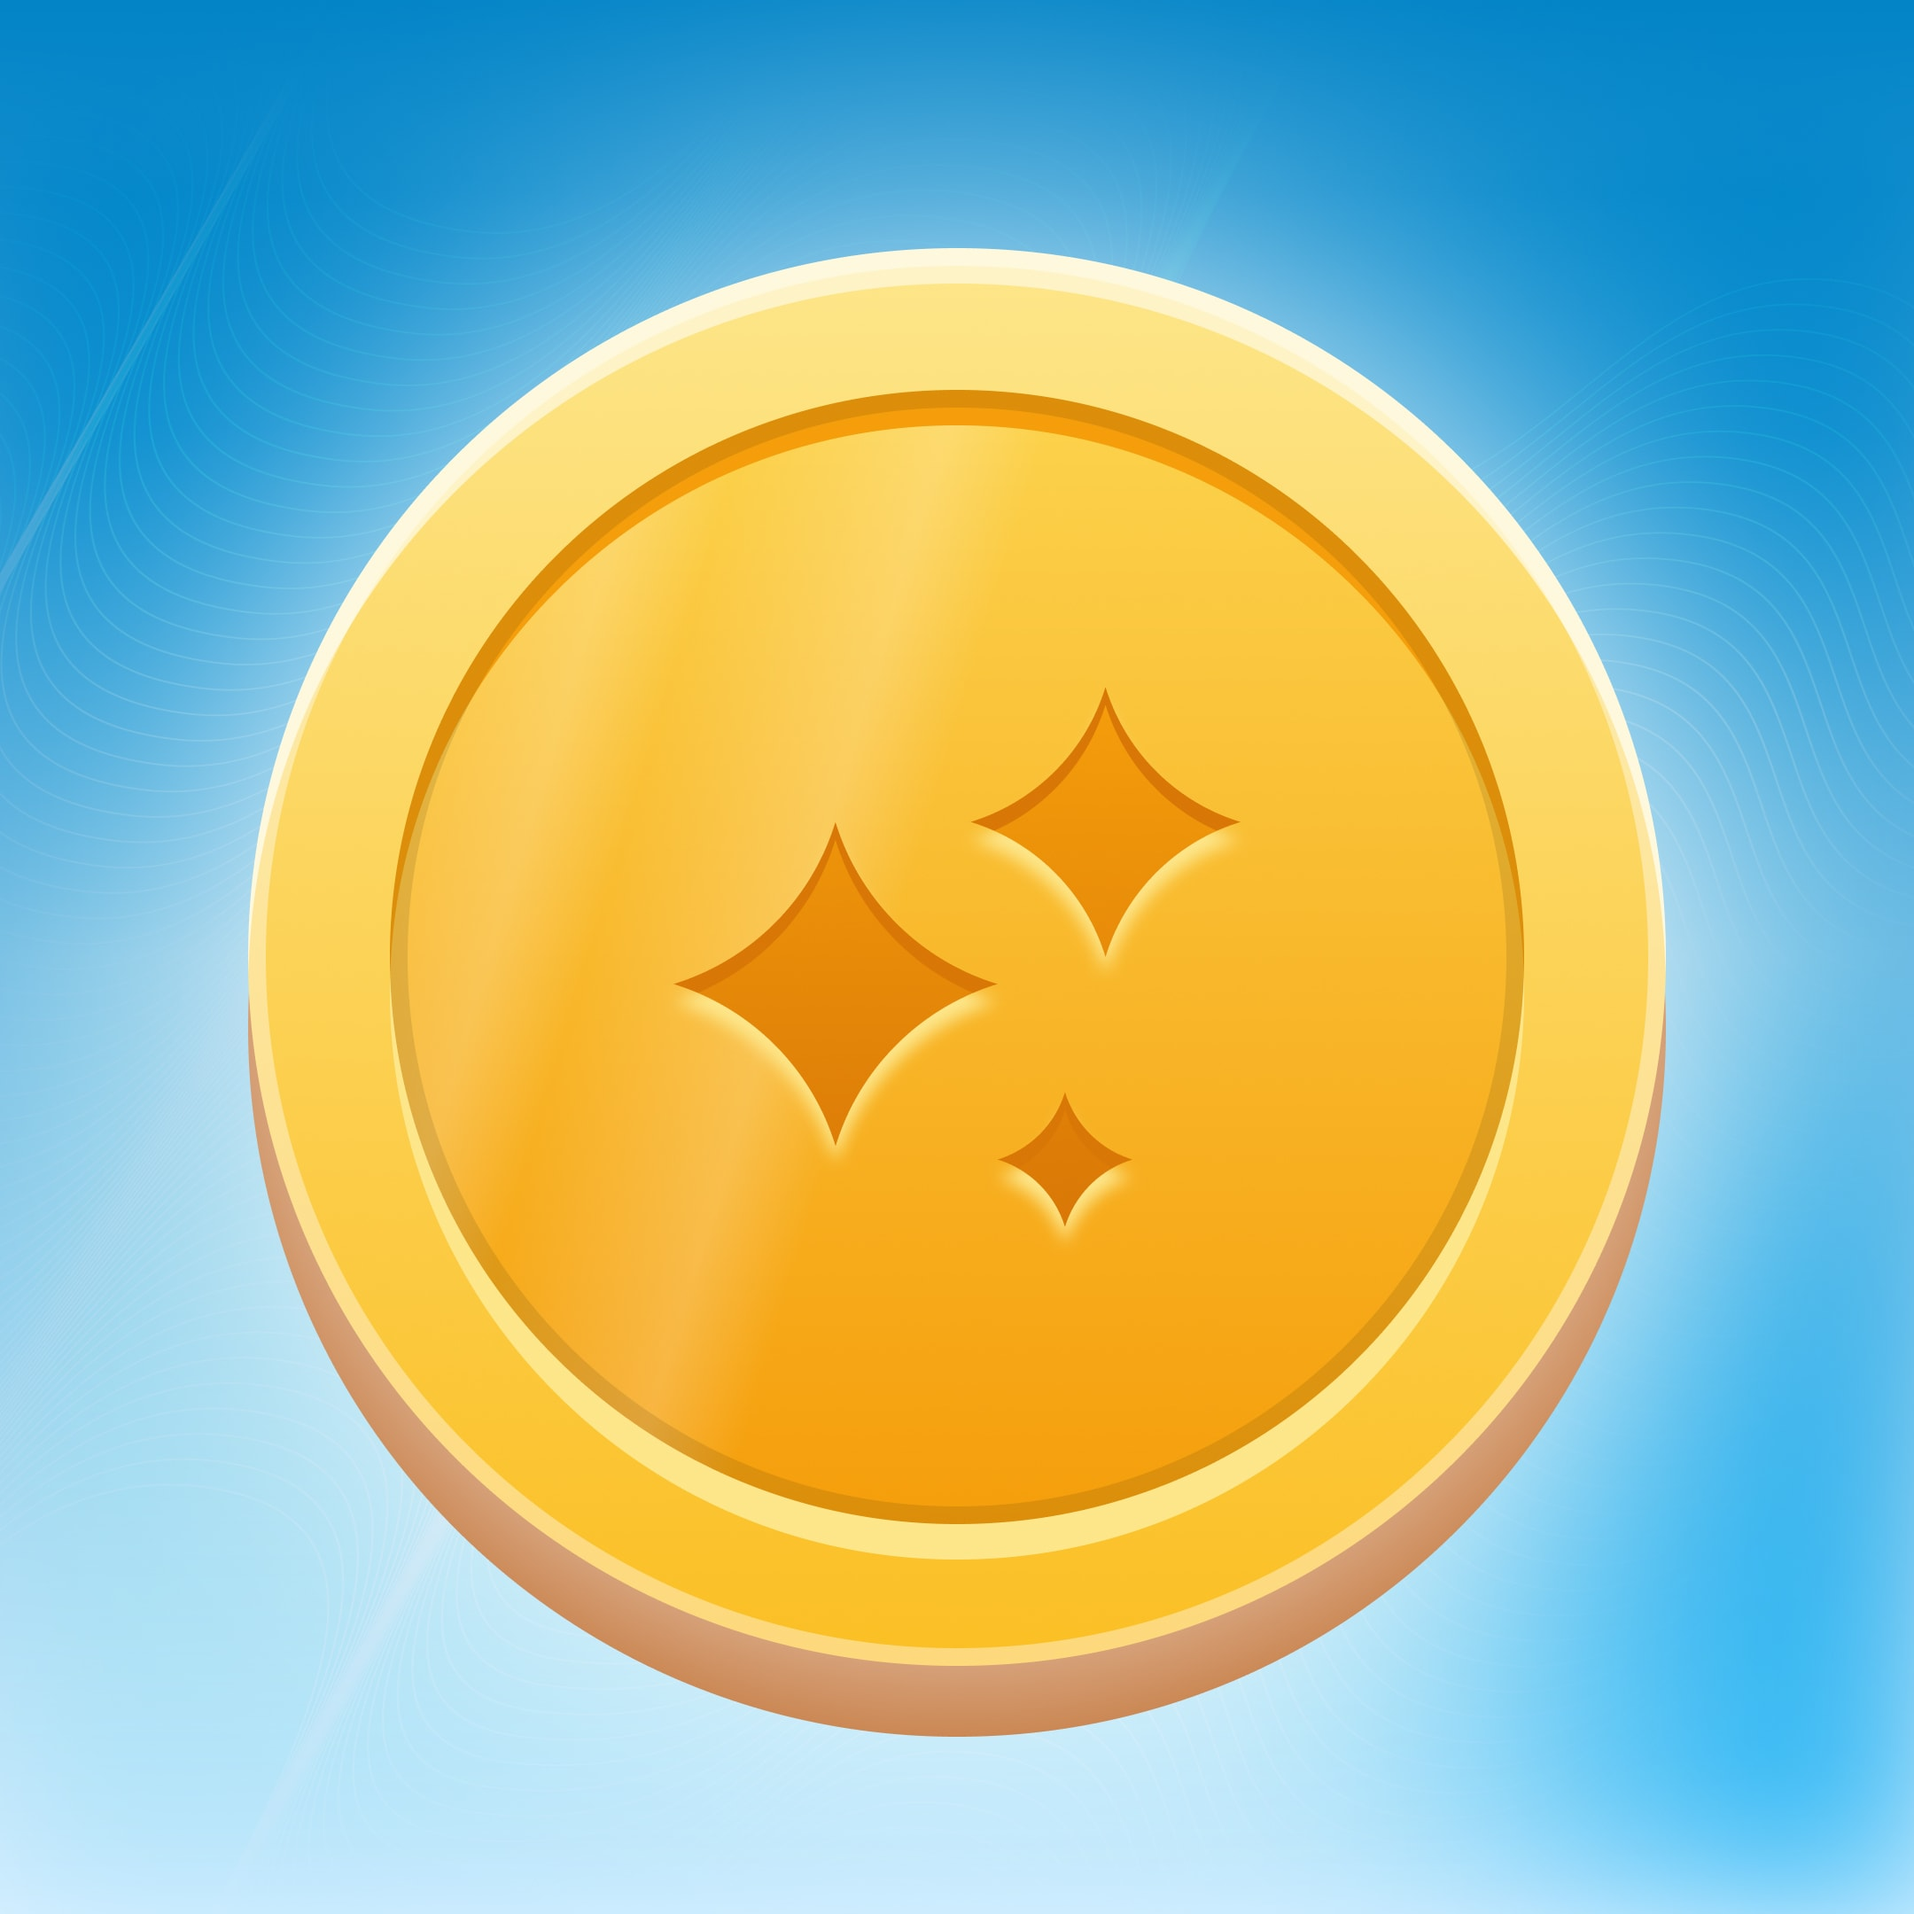
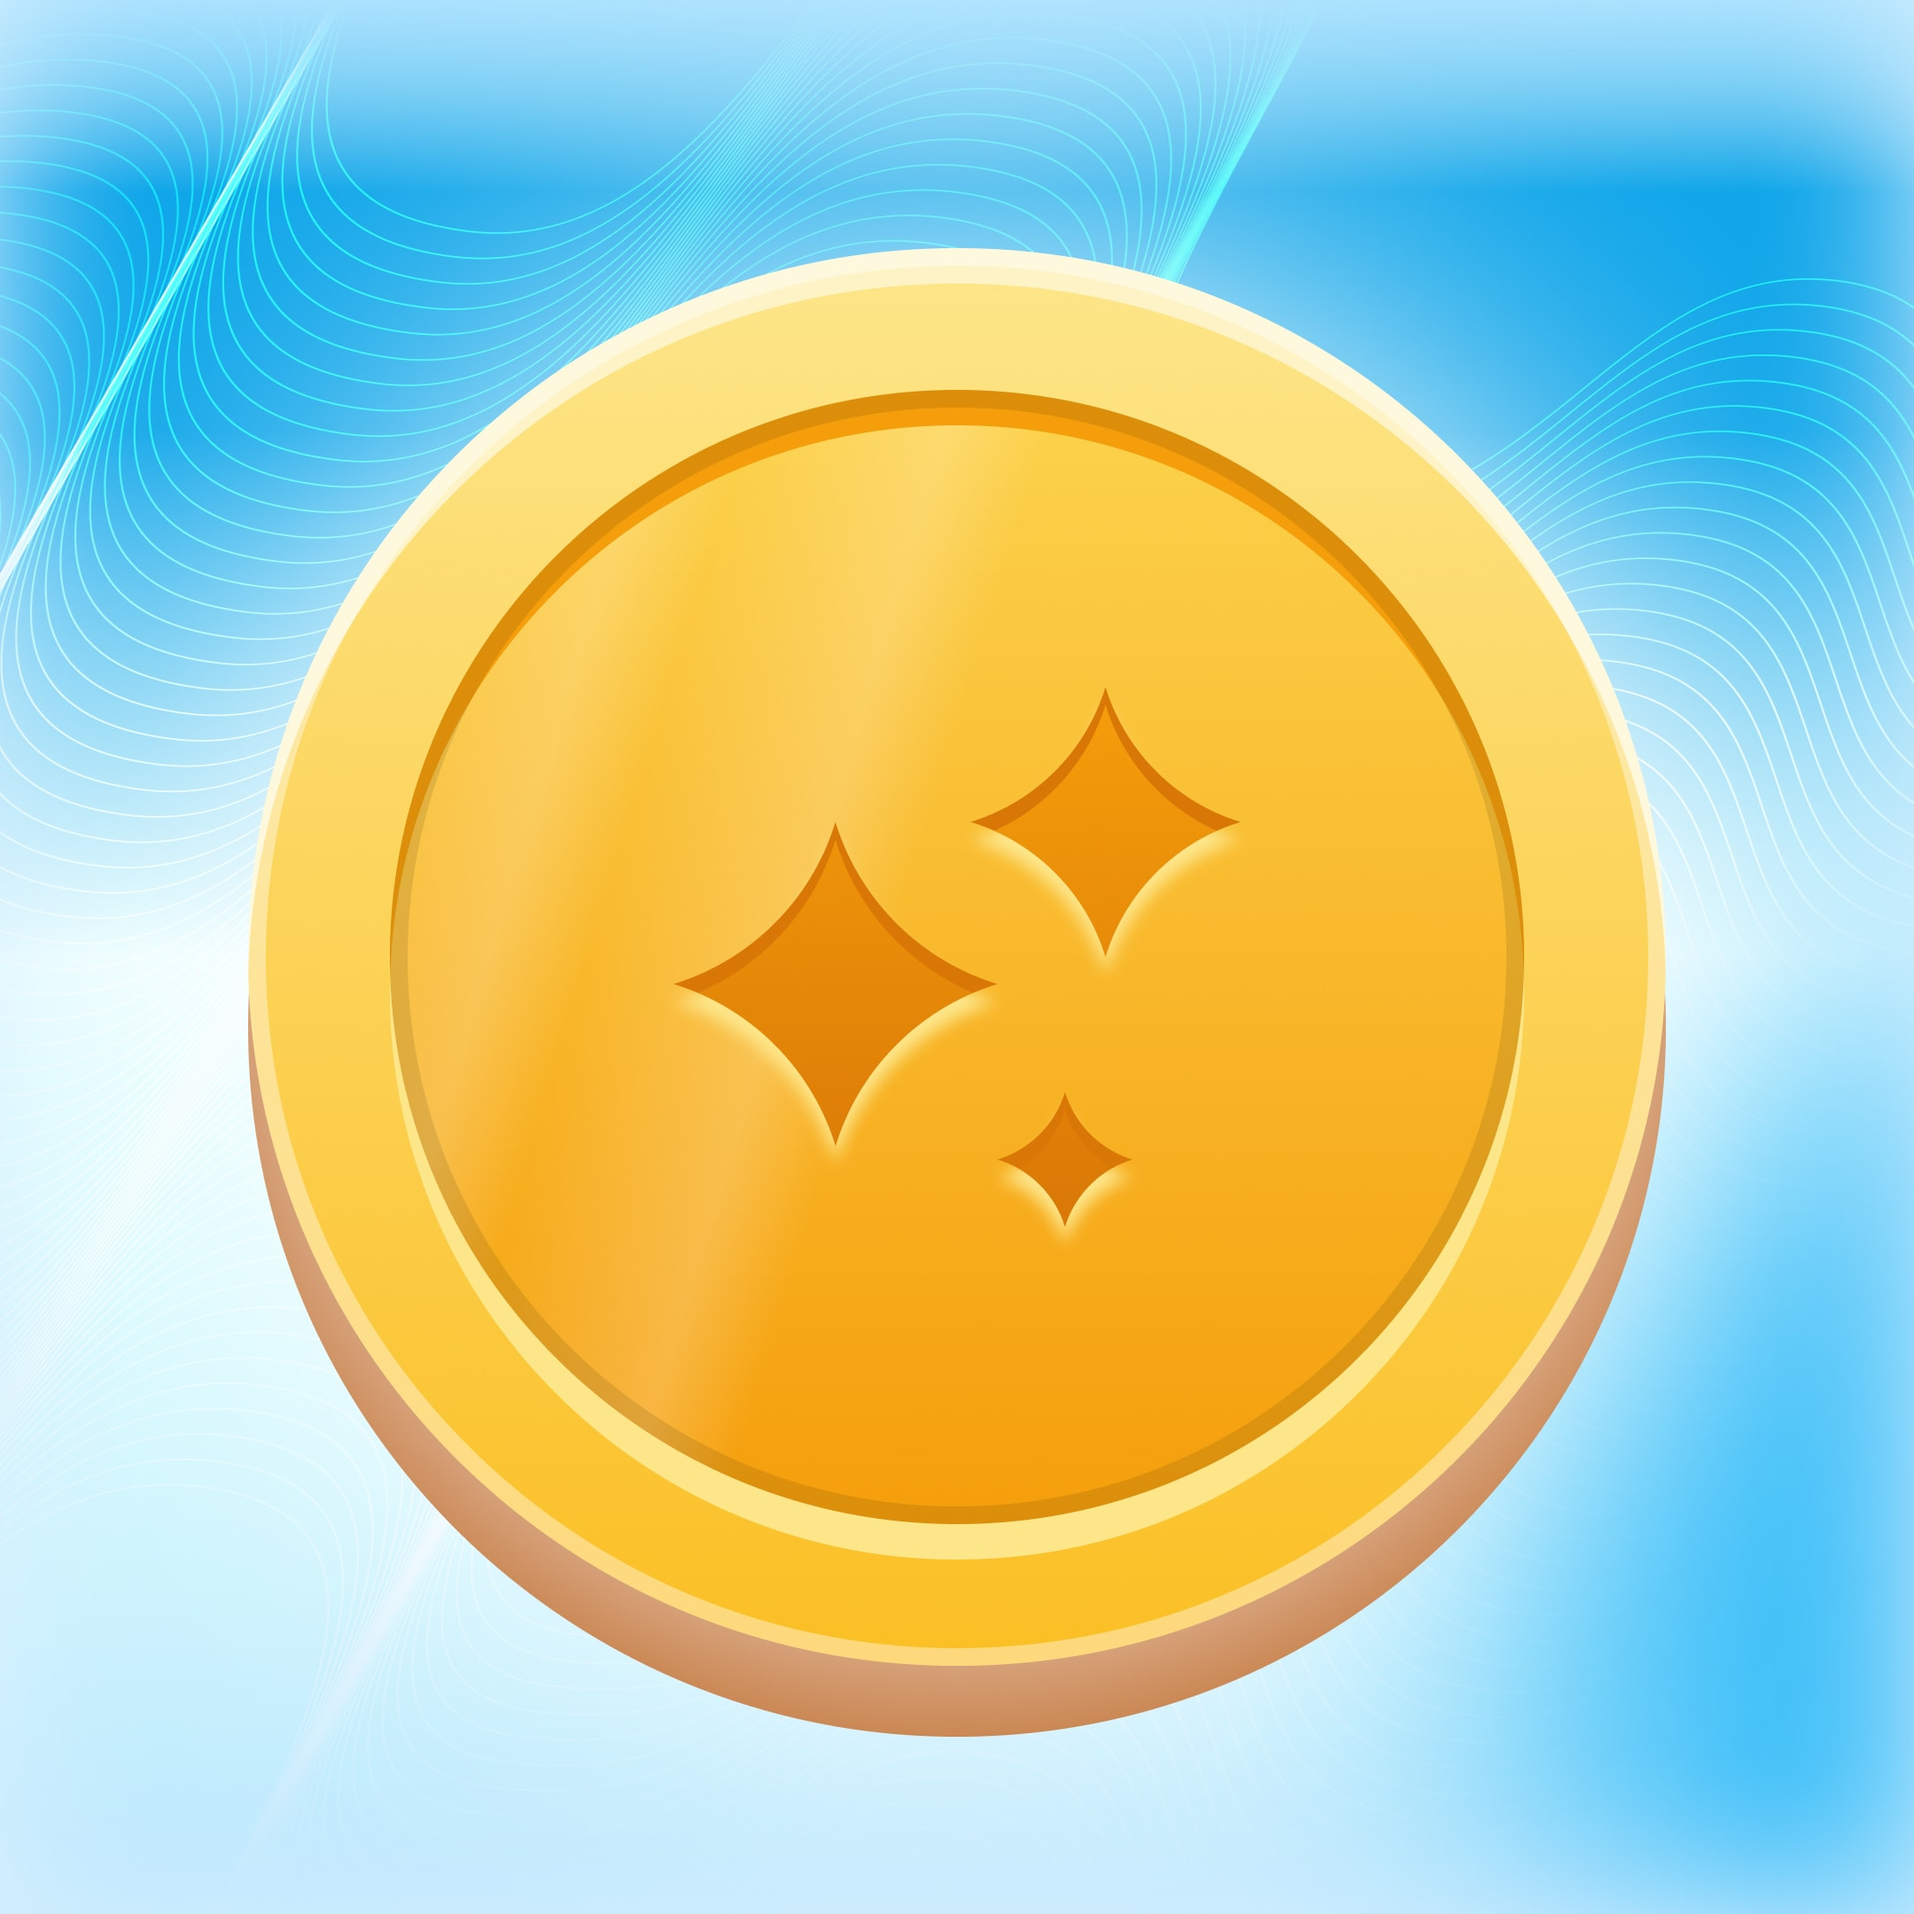
ORO orange

diff --git a/_site/assets/css/main.css b/_site/assets/css/main.css
@@ -1,1 +1,1 @@
-@import"https://fonts.googleapis.com/css2?family=Onest:wght@100..900&display=swap";:root{--primary-color: black;--secondary-color: red;--amber-500: #F59E0B;--sky-50: #F0F9FF;--sky-100: #E0F2FE;--sky-200: #BAE6FD;--sky-300: #7DD3FC;--sky-400: #38BDF8;--sky-500: #0EA5E9;--sky-600: #0284C7;--sky-700: #0369A1;--sky-800: #075985;--sky-900: #0C4A6E;--sky-950: #082F49;--slate-50: #F8FAFC;--slate-100: #F1F5F9;--slate-200: #E2E8F0;--slate-300: #CBD5E1;--slate-400: #94A3B8;--slate-500: #64748B;--slate-600: #6E7F95;--slate-700: #546378;--slate-800: #2E3847;--slate-900: #1A2028;--slate-950: #020617;--uno-blue: #01B3FF}*,html{margin:0;padding:0;box-sizing:border-box;-webkit-font-smoothing:antialiased;-moz-osx-font-smoothing:grayscale;text-rendering:optimizeLegibility}::-moz-selection{color:#fff;background:var(--sky-300)}::selection{color:#fff;background:var(--sky-300)}body{font-family:"Onest",sans-serif;font-size:16px}h1{font-size:32px;font-weight:700;text-shadow:0 2px 2px #fff}h2{font-size:18px;font-weight:500;text-shadow:0 2px 2px #fff}h3{font-size:14px;font-weight:600;color:var(--sky-700);text-shadow:0 2px 2px #fff}p{font-size:1rem;font-weight:500}a{transition:all .2s ease-in-out;color:var(--tertiary-color);text-decoration:none;font-weight:700;color:var(--sky-950)}a:hover,a:focus,a:active{color:var(--sky-700)}@keyframes fade{0%{opacity:0;transform:translateY(10vh);filter:blur(2rem)}100%{opacity:1;transform:translateY(0);filter:blur(0px)}}.fade{animation:fade .45s ease-out}body{color:var(--sky-950)}main{display:flex;flex-direction:column;align-items:center;background-image:url("/oro-web/assets/images/background.png"),linear-gradient(to top, var(--sky-50), var(--sky-300));background-position:center,center;background-repeat:no-repeat,no-repeat;background-size:cover,cover;min-height:100vh;width:100%;overflow:hidden}section{display:flex;flex-direction:column;max-width:960px;gap:5rem;width:100%}section.center{flex-direction:row;align-items:center;height:100vh}@media(max-width: 768px){section.center{flex-direction:column;height:auto;gap:2rem}}hr{width:100%;border:none;border-top:1px solid var(--sky-200)}.hero-container,.hero-image{display:flex;flex-direction:column;gap:3rem;padding:1rem;max-width:440px;width:100%}.hero-container{z-index:1}.hero-image{position:relative;pointer-events:none;min-height:320px}.hero-image img{width:1125px;position:absolute;top:50%;left:50%;transform:translateX(-50%) translateY(-50%);height:auto}@media(max-width: 768px){.hero-image img{transform:translateX(-55%) translateY(-65%)}}.logo-section{display:flex;flex-direction:column;gap:1.5rem;align-items:flex-start}.logo-section img{height:6rem;width:auto;border-radius:1.5rem;box-shadow:0px 10px 15px -3px rgba(0,0,0,.1),0px 4px 6px -4px rgba(0,0,0,.1)}.action-section{display:flex;flex-direction:column;gap:1.5rem;align-items:flex-start}.action-button{display:flex;align-items:center;justify-content:center;background:hsla(0,0%,100%,.8);backdrop-filter:blur(0.5rem);-webkit-backdrop-filter:blur(0.5rem);border:1px solid #fff;color:var(--slate-900);padding:.75rem 1.5rem;gap:.25rem;height:4rem;border-radius:2rem;font-size:1.25rem;line-height:1.25rem;box-shadow:0px 1px 3px 0px rgba(0,0,0,.1),0px 1px 2px -1px rgba(0,0,0,.1)}.action-button:hover,.action-button:focus{background-color:#fff;color:var(--sky-950);transform:translateY(-0.125rem);box-shadow:0px 2px 16px 0px var(--amber-500),0px 2px 24px -2px var(--amber-500)}.action-button:active{transform:translateY(0);box-shadow:0px 1px 3px 0px rgba(0,0,0,.1),0px 1px 2px -1px rgba(0,0,0,.1)}@media(max-width: 768px){.action-button{width:100%}}.action-button img{width:1.5rem;height:1.5rem;object-fit:cover}.qr-section{display:flex;align-items:center;gap:1.5rem}@media(max-width: 768px){.qr-section{display:none}}.qr-section h2{display:flex;flex:1}.qr-section .qr-container{display:flex;width:10rem;height:10rem;border-radius:.75rem;background-color:#fff;padding:1.5rem;box-shadow:0px 10px 15px -3px rgba(0,0,0,.1),0px 4px 6px -4px rgba(0,0,0,.1);transition:all .2s cubic-bezier(0.4, 0, 0.2, 1)}.qr-section .qr-container:hover{transform:scale(1.2)}.qr-section .qr-container img{width:100%;height:auto}/*# sourceMappingURL=main.css.map */
+@import"https://fonts.googleapis.com/css2?family=Onest:wght@100..900&display=swap";:root{--primary-color: black;--secondary-color: red;--amber-50: #FFFBEB;--amber-100: #FEF3C7;--amber-200: #FDE68A;--amber-300: #FCD34D;--amber-400: #FBBF24;--amber-500: #F59E0B;--amber-600: #D97706;--amber-700: #B45309;--amber-800: #92400E;--amber-900: #78350F;--amber-950: #451A03;--sky-50: #F0F9FF;--sky-100: #E0F2FE;--sky-200: #BAE6FD;--sky-300: #7DD3FC;--sky-400: #38BDF8;--sky-500: #0EA5E9;--sky-600: #0284C7;--sky-700: #0369A1;--sky-800: #075985;--sky-900: #0C4A6E;--sky-950: #082F49;--slate-50: #F8FAFC;--slate-100: #F1F5F9;--slate-200: #E2E8F0;--slate-300: #CBD5E1;--slate-400: #94A3B8;--slate-500: #64748B;--slate-600: #6E7F95;--slate-700: #546378;--slate-800: #2E3847;--slate-900: #1A2028;--slate-950: #020617}*,html{margin:0;padding:0;box-sizing:border-box;-webkit-font-smoothing:antialiased;-moz-osx-font-smoothing:grayscale;text-rendering:optimizeLegibility}::-moz-selection{color:#fff;background:var(--sky-300)}::selection{color:#fff;background:var(--sky-300)}body{font-family:"Onest",sans-serif;font-size:16px}h1{font-size:32px;font-weight:800;text-shadow:0 2px 2px hsla(0,0%,100%,.2)}h2{font-size:18px;font-weight:500;text-shadow:0 2px 2px hsla(0,0%,100%,.2)}h3{font-size:14px;font-weight:600;text-shadow:0 2px 2px hsla(0,0%,100%,.2)}p{font-size:1rem;font-weight:500}a{transition:all .2s ease-in-out;color:var(--tertiary-color);text-decoration:none;font-weight:700;color:var(--sky-950)}a:hover,a:focus,a:active{color:var(--sky-700)}@keyframes fade{0%{opacity:0;transform:translateY(10vh);filter:blur(2rem)}100%{opacity:1;transform:translateY(0);filter:blur(0px)}}.fade{animation:fade .45s ease-out}body{color:var(--sky-950)}main{display:flex;flex-direction:column;align-items:center;background-image:linear-gradient(to top, rgba(255, 255, 255, 0) 40%, var(--amber-500) 100%),url("/oro-web/assets/images/background.png"),linear-gradient(to top, var(--amber-100), var(--amber-500));background-position:center,center;background-repeat:no-repeat,no-repeat;background-size:cover,cover;min-height:100vh;width:100%;overflow:hidden}section{display:flex;flex-direction:column;max-width:960px;gap:5rem;width:100%}section.center{flex-direction:row;align-items:center;height:100vh}@media(max-width: 768px){section.center{flex-direction:column;height:auto;gap:2rem}}hr{width:100%;border:none;border-top:1px solid var(--sky-200)}.hero-container,.hero-image{display:flex;flex-direction:column;gap:3rem;padding:1rem;max-width:440px;width:100%}.hero-container{z-index:1}.hero-image{position:relative;pointer-events:none;min-height:320px}.hero-image img{width:1125px;position:absolute;top:50%;left:50%;transform:translateX(-50%) translateY(-50%);height:auto}@media(max-width: 768px){.hero-image img{transform:translateX(-55%) translateY(-65%)}}.logo-section{display:flex;flex-direction:column;gap:1.5rem;align-items:flex-start}.logo-section img{height:6rem;width:auto;border-radius:1.5rem;box-shadow:0px 10px 15px -3px rgba(0,0,0,.1),0px 4px 6px -4px rgba(0,0,0,.1)}.action-section{display:flex;flex-direction:column;gap:1.5rem;align-items:flex-start}.action-button{display:flex;align-items:center;justify-content:center;background:hsla(0,0%,100%,.8);backdrop-filter:blur(0.5rem);-webkit-backdrop-filter:blur(0.5rem);border:1px solid #fff;color:var(--slate-900);padding:.75rem 1.5rem;gap:.25rem;height:4rem;border-radius:2rem;font-size:1.25rem;line-height:1.25rem;box-shadow:0px 1px 3px 0px rgba(0,0,0,.1),0px 1px 2px -1px rgba(0,0,0,.1)}.action-button:hover,.action-button:focus{background-color:#fff;color:var(--sky-950);transform:translateY(-0.125rem);box-shadow:0px 2px 16px 0px var(--amber-500),0px 2px 24px -2px var(--amber-500)}.action-button:active{transform:translateY(0);box-shadow:0px 1px 3px 0px rgba(0,0,0,.1),0px 1px 2px -1px rgba(0,0,0,.1)}@media(max-width: 768px){.action-button{width:100%}}.action-button img{width:1.5rem;height:1.5rem;object-fit:cover}.qr-section{display:flex;align-items:center;gap:1.5rem}@media(max-width: 768px){.qr-section{display:none}}.qr-section h2{display:flex;flex:1}.qr-section .qr-container{display:flex;width:10rem;height:10rem;border-radius:.75rem;background-color:#fff;padding:1.5rem;box-shadow:0px 10px 15px -3px rgba(0,0,0,.1),0px 4px 6px -4px rgba(0,0,0,.1);transition:all .2s cubic-bezier(0.4, 0, 0.2, 1)}.qr-section .qr-container:hover{transform:scale(1.2)}.qr-section .qr-container img{width:100%;height:auto}/*# sourceMappingURL=main.css.map */

diff --git a/_sass/_variables.scss b/_sass/_variables.scss
@@ -5,7 +5,17 @@
 :root {
     --primary-color: black;
     --secondary-color: red;
+    --amber-50: #FFFBEB;
+    --amber-100: #FEF3C7;
+    --amber-200: #FDE68A;
+    --amber-300: #FCD34D;
+    --amber-400: #FBBF24;
     --amber-500: #F59E0B;
+    --amber-600: #D97706;
+    --amber-700: #B45309;
+    --amber-800: #92400E;
+    --amber-900: #78350F;
+    --amber-950: #451A03;
     --sky-50: #F0F9FF;
     --sky-100: #E0F2FE;
     --sky-200: #BAE6FD;
@@ -28,5 +38,4 @@
     --slate-800: #2E3847;
     --slate-900: #1A2028;
     --slate-950: #020617;
-    --uno-blue: #01B3FF;
 } 

diff --git a/_sass/_typography.scss b/_sass/_typography.scss
@@ -5,21 +5,20 @@ body {
 }
 h1 {
     font-size: 32px;
-    font-weight: 700;
-    text-shadow: 0 2px 2px white;
+    font-weight: 800;
+    text-shadow: 0 2px 2px rgba(255, 255, 255, 0.2);
 }
 
 h2 {
     font-size: 18px;
     font-weight: 500;
-    text-shadow: 0 2px 2px white;
+    text-shadow: 0 2px 2px rgba(255, 255, 255, 0.2);
 }
 
 h3 {
     font-size: 14px;
     font-weight: 600;
-    color: var(--sky-700);
-    text-shadow: 0 2px 2px white;
+    text-shadow: 0 2px 2px rgba(255, 255, 255, 0.2);
 }
 
 p {

diff --git a/_sass/_layout.scss b/_sass/_layout.scss
@@ -8,8 +8,9 @@ main {
     flex-direction: column;
     align-items: center;
     background-image: 
+        linear-gradient(to top, rgba(255,255,255,0) 40%, var(--amber-500) 100%),
         url('#{$baseurl}/assets/images/background.png'),
-        linear-gradient(to top, var(--sky-50), var(--sky-300));
+        linear-gradient(to top, var(--amber-100), var(--amber-500));
     background-position: center, center;
     background-repeat: no-repeat, no-repeat;
     background-size: cover, cover;
